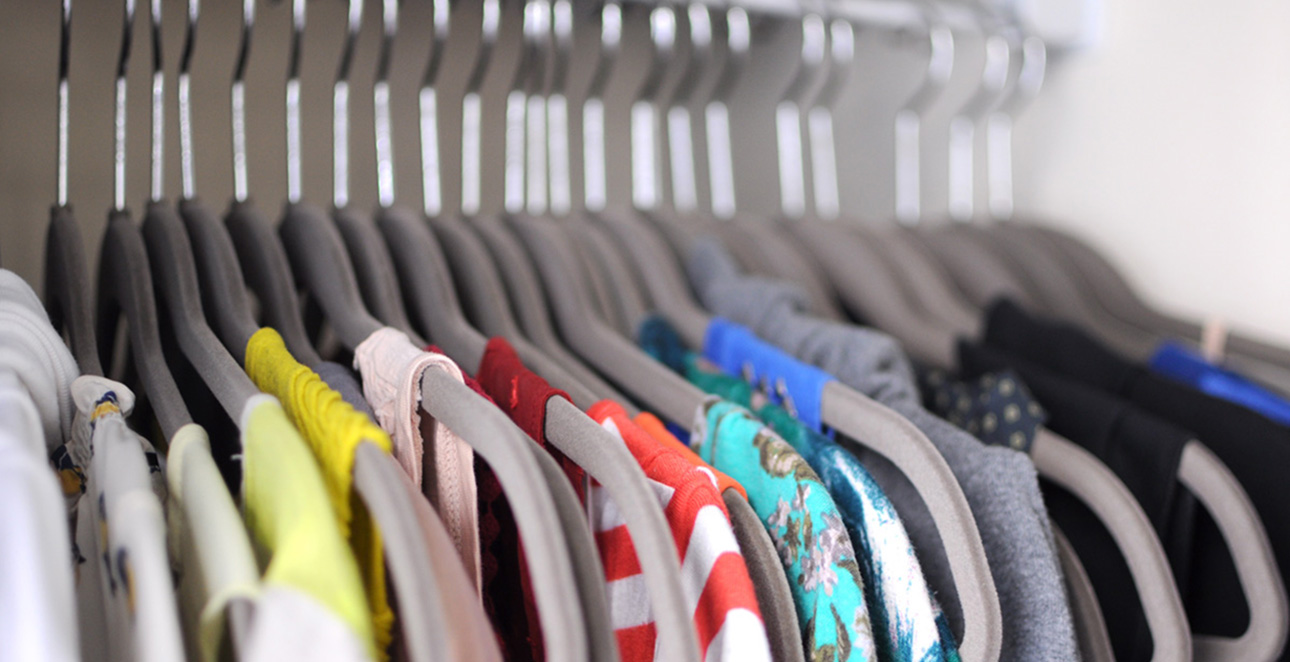
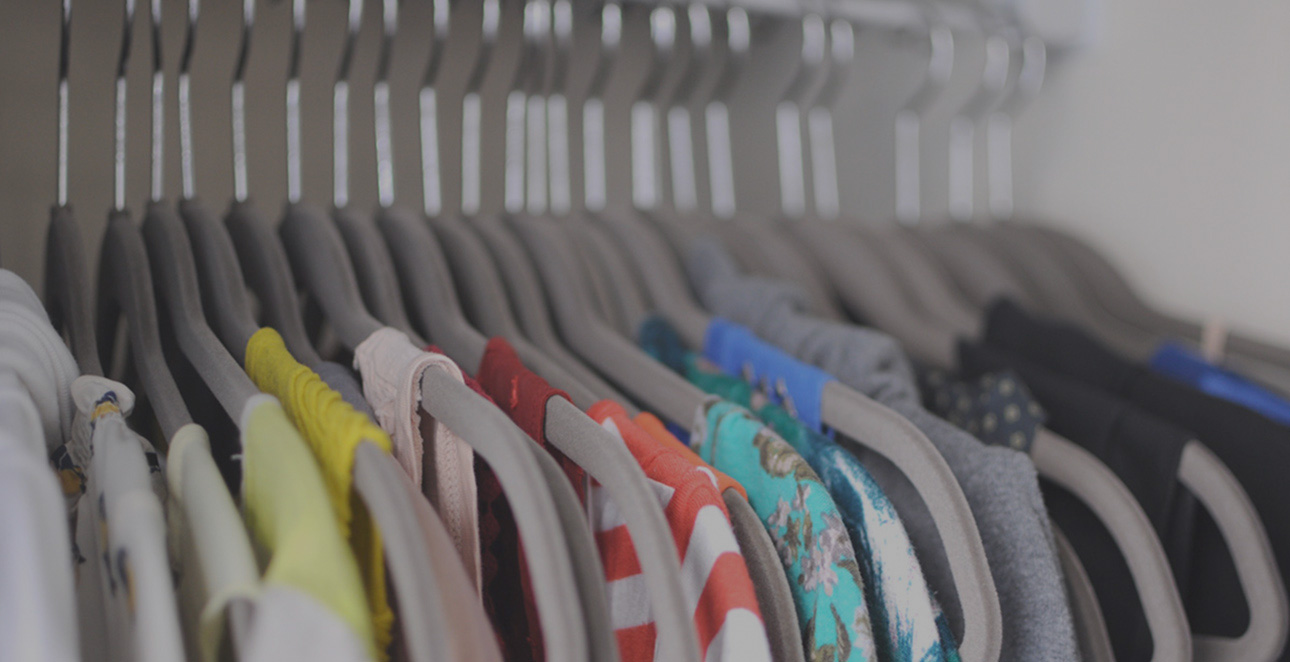
image and hamburger menu fix

diff --git a/css/main.css b/css/main.css
@@ -181,8 +181,8 @@ img {
   .fa-bars {
     display: inline-block;
     float: right;
-    font-size: 2.5em;
-    margin-top: 3.8%;
+    font-size: 2em;
+    color: #ddd;
 
   }
 
@@ -198,49 +198,10 @@ img {
   }
   .modal-content li {
     font-size: 1.2em;
-  }
-  
-  button {
-    width: 44px;
-    height: 35px;
-    padding: 9px 10px;
-    margin-top: 8px;
-    margin-right: 15px;
-    margin-bottom: 8px;
-    background-color: transparent;
-    border: 1px solid transparent;
-    border-radius: 4px;
-  }
-  .navbar-toggle {
-    border-color: #ddd;
 
   }
-  .navbar-toggle:hover,
-  .navbar-toggle:focus {
-    background-color: #ddd;
-  }
-  .navbar-toggle .icon-bar {
-    background-color: #888;
-  }
-  .navbar-toggle .icon-bar {
-  display: block;
-  width: 22px;
-  height: 2px;
-  border-radius: 1px;
-  }
-  .navbar-toggle .icon-bar + .icon-bar {
-    margin-top: 4px;
-  }
-  .navbar-collapse,
-  .navbar-form {
-    border-color: #e7e7e7;
-  }
-  .navbar-nav > .open > a,
-  .navbar-nav > .open > a:hover,
-  .navbar-nav > .open > a:focus {
-    color: #555;
-    background-color: #e7e7e7;
-  }
+
+
 
 /* SCREEN SIZE > 421px and < 640PX TABLET*/
 @media all and (min-width: 421px) and (max-width: 640px){
@@ -252,8 +213,9 @@ img {
   .fa-bars {
     display: inline-block;
     float: right;
-    font-size: 2.5em;
-    margin-top: 3.8%;
+    font-size: 2em;
+    color: #ddd;
+
   }
 
   #sort,
@@ -268,6 +230,15 @@ img {
   }
   .modal-content li {
     font-size: 1.2em;
+    position: relative;
+    list-style: none;
+    margin: 0 2% 0 0;
+    display: inline-block;
+    border: 1px solid rgba(38, 38, 38, .9);
+    text-transform: uppercase;
+    padding: 5 5 1 5px;
+    background: #FFF;
+    border-radius: 2px;
   }
 
 }

diff --git a/css/intro.css b/css/intro.css
@@ -142,17 +142,27 @@ h4 {
     color: #fff;
 }
 .home-image {
-  background: url(../images/closet.jpg) no-repeat center center fixed; 
-    vertical-align: middle;
-    min-height: 100%;
-    width: 100%;
+  background: url(../images/closet.jpg) no-repeat center center fixed;
+  display: table;
+  height: 100%;
+  position: relative;
+  width: 100%;
+  -webkit-background-size: cover;
+  -moz-background-size: cover;
+  -o-background-size: cover;
+  background-size: cover;
 }
 
 .start-image {
-  background: url(../images/out-the-door.jpg) no-repeat center center fixed; 
-    vertical-align: middle;
-    min-height: 100%;
-    width: 100%;
+  background: url(../images/out-the-door.jpg) no-repeat center center fixed;
+  display: table;
+  height: 100%;
+  position: relative;
+  width: 100%;
+  -webkit-background-size: cover;
+  -moz-background-size: cover;
+  -o-background-size: cover;
+  background-size: cover;
 }
 
 .home:after, 

diff --git a/closet.html b/closet.html
@@ -12,13 +12,8 @@
     <div id="Container">
 
       <div id="control-bar">
-      <button class="navbar-toggle" data-toggle="collapse" data-target="#navbar-collapse-main" id='hamburger-menu'>
-          <span class="sr-only">Toggle navigation</span>
-          <span class="icon-bar"></span>
-          <span class="icon-bar"></span>
-          <span class="icon-bar"></span>
-        </button>
-      <!-- <i id='hamburger-menu' class="fa fa-bars"></i> -->
+
+      <i id='hamburger-menu' class="fa fa-bars"></i>
         <div id="logo">
           <h1><a href="index.html" title="Back to intro">YourList</a></h1><i class="fa fa-list-ol"></i>
         </div>

diff --git a/index.html b/index.html
@@ -44,8 +44,7 @@
 </nav>
 
 <!-- first section - Home -->
-<div id="home" class="home">
-<div class="home-image"></div>
+<div id="home" class="home-image">
   <div class="text-vcenter home-caption">
     <h1>Welcome to <span>YourList<span></h1>
     <h3>Build your closet. Create your outfits.</h3>
@@ -102,8 +101,7 @@
 <!-- /third section -->
 
 <!-- fourth section - Start -->
-<div id="start" class="start">
-<div class="start-image"></div>
+<div id="start" class="start-image">
   <div class="text-vcenter start-caption">
     <h1>Where are you going?</h1>
     <div class="col-sm-12 col-centered get-started">
